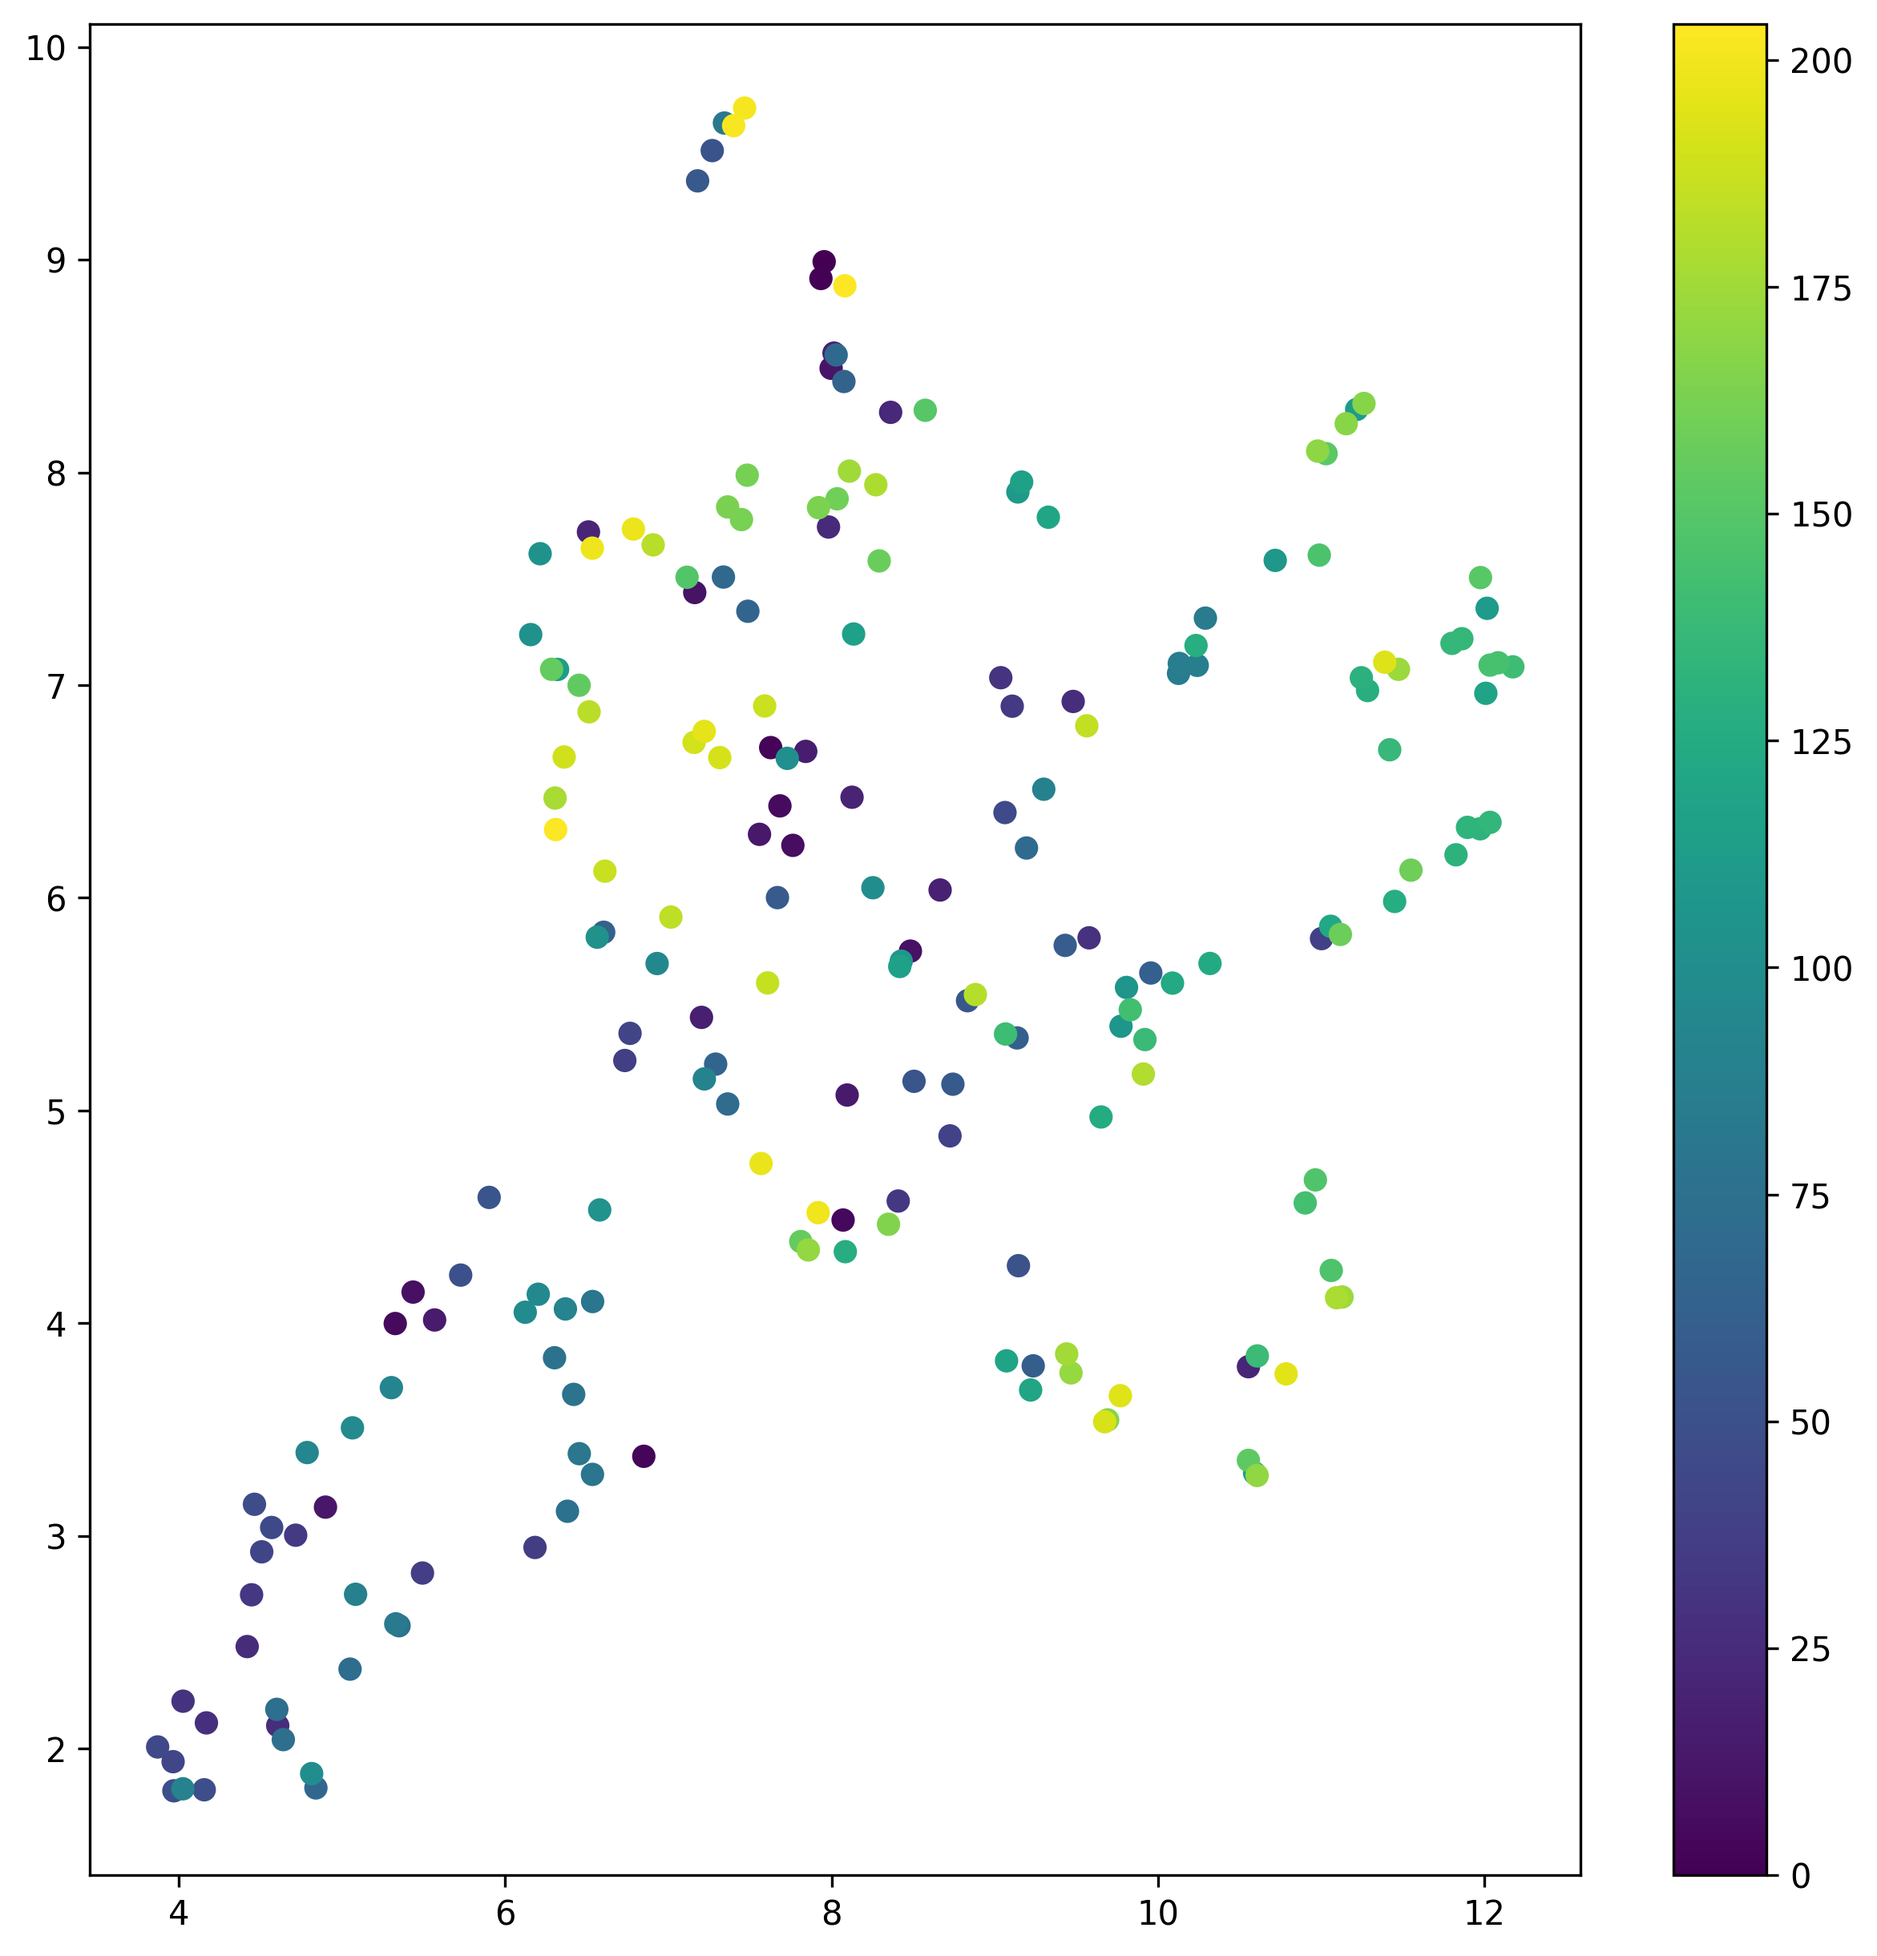
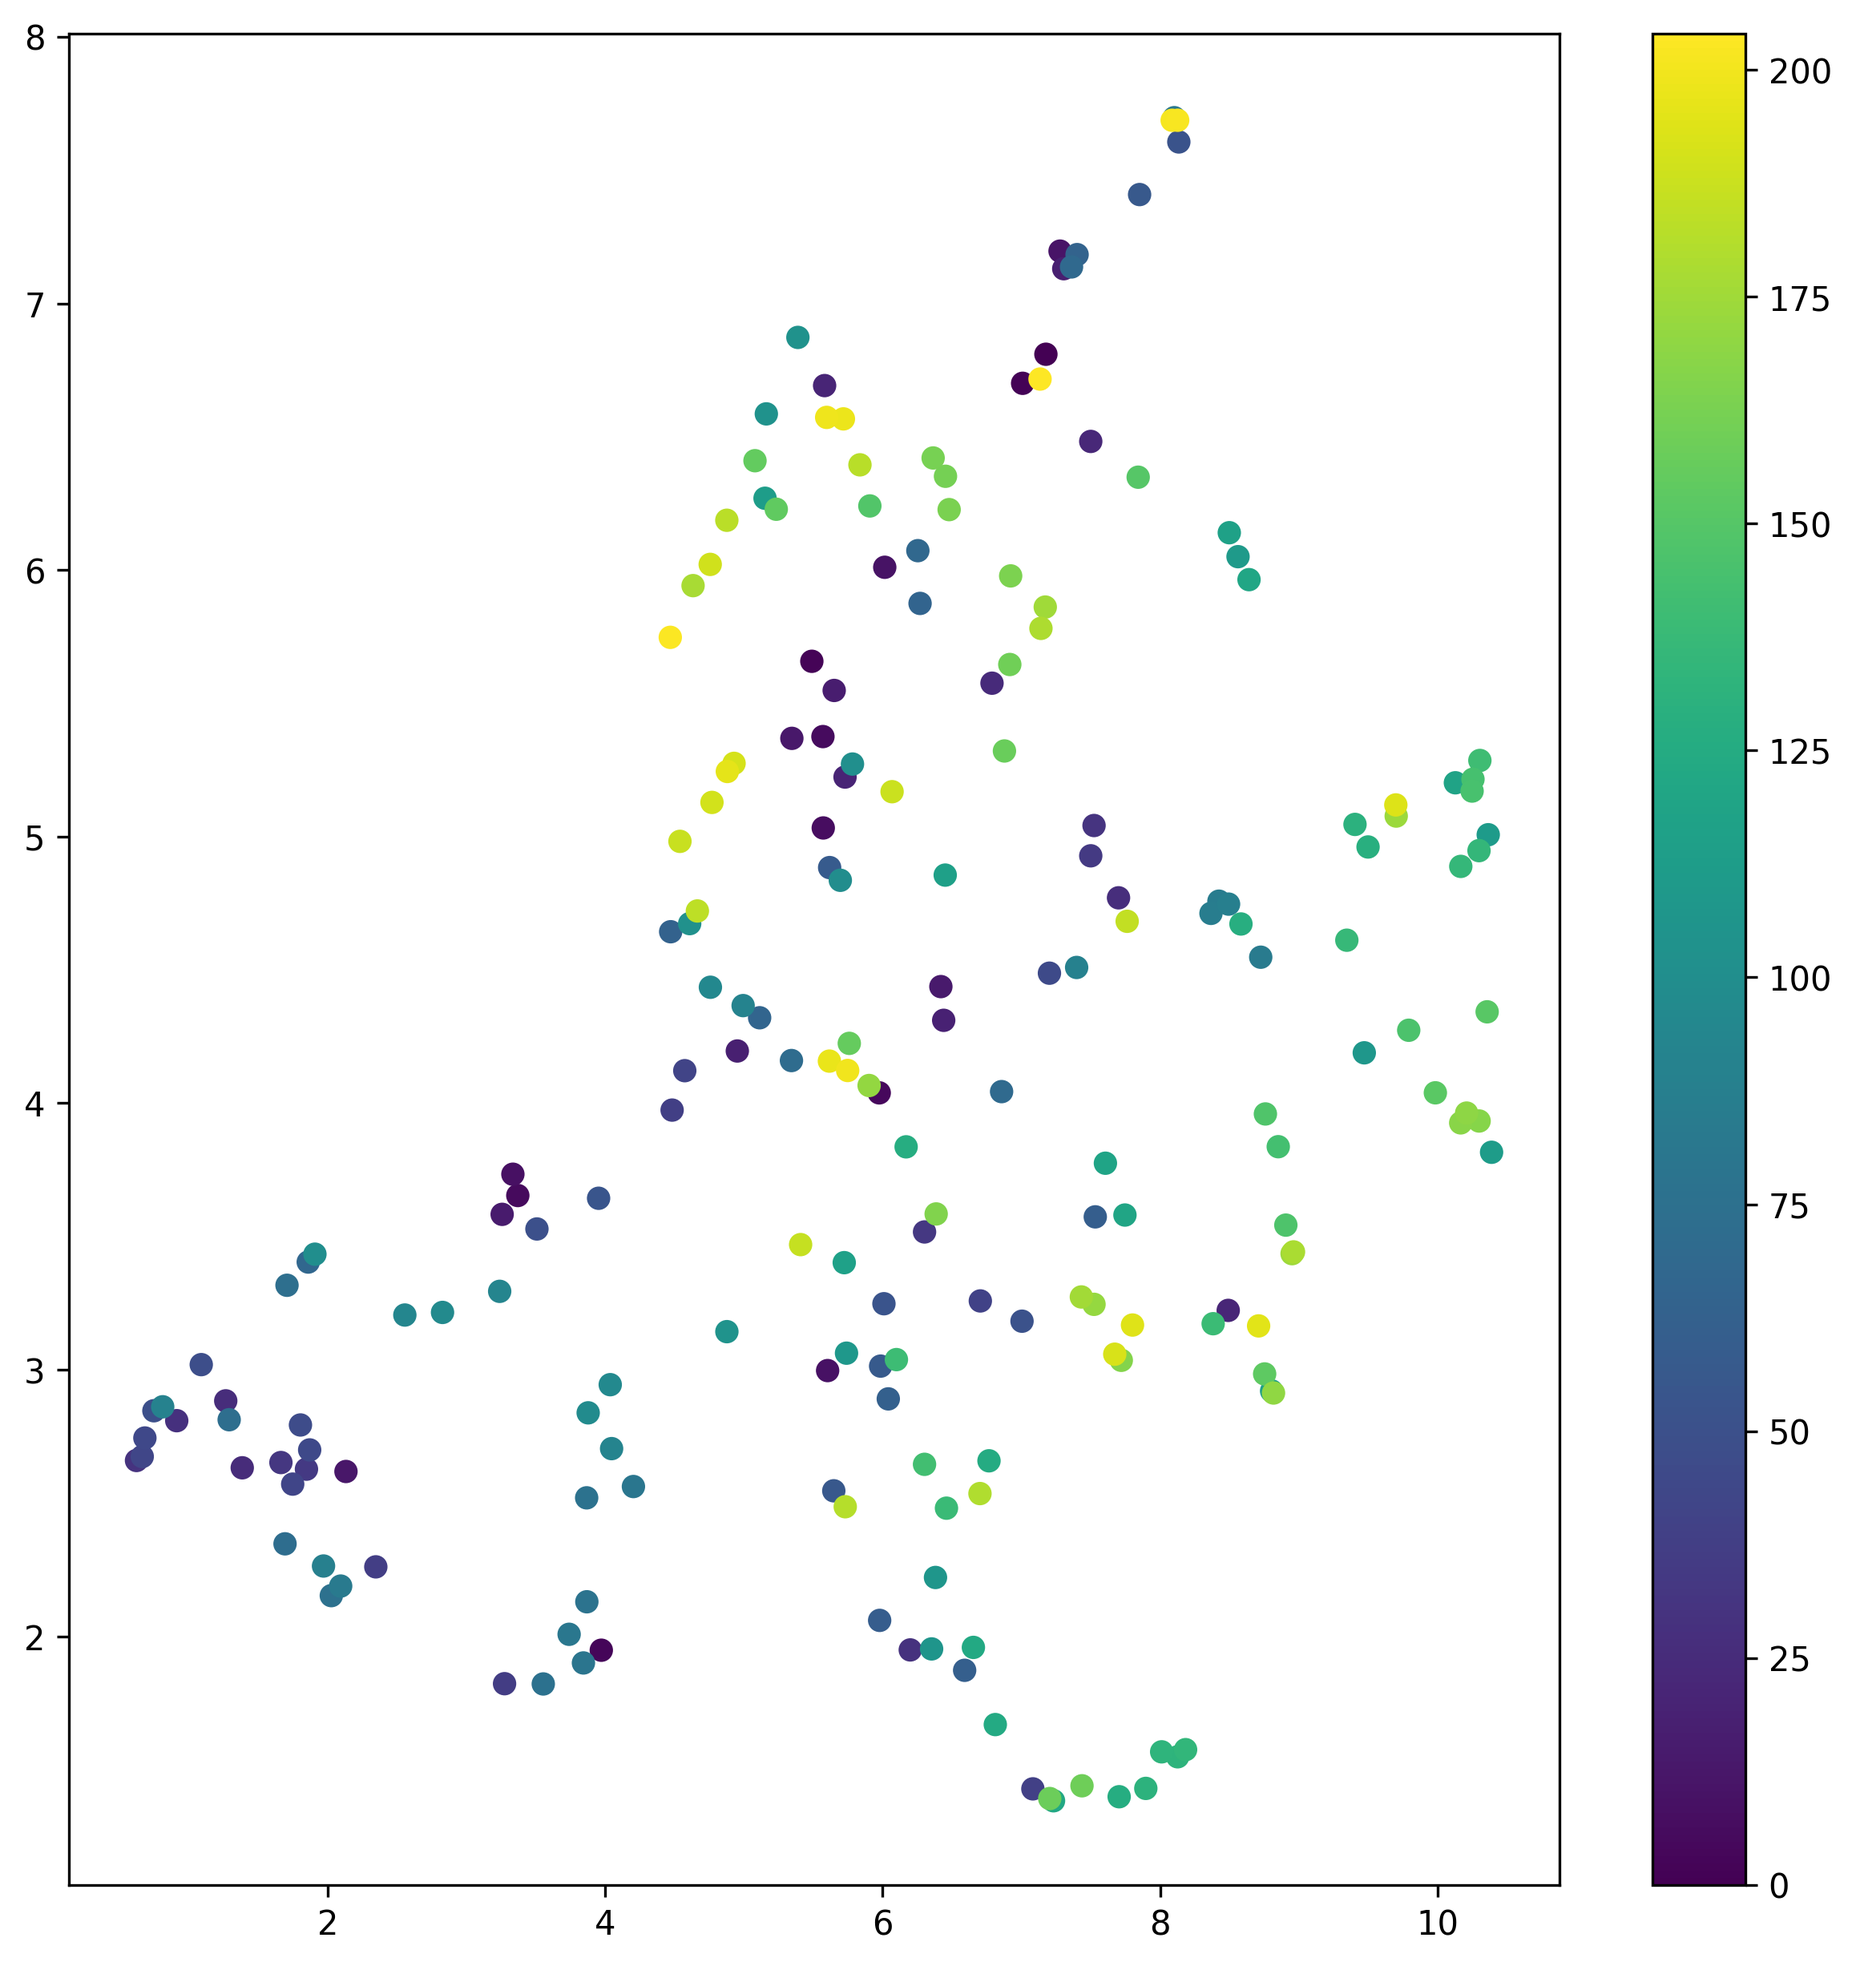
added abstract visualization to the mail

diff --git a/main.py b/main.py
@@ -12,12 +12,14 @@ import time
 import numpy as np
 import torch
 import nltk
+from typing import List
 import os
 from tqdm import tqdm
 import argparse
 import umap
 import matplotlib.pyplot as plt
 from multiprocessing import Pool
+import textwrap
 
 import openai
 from sentence_transformers import SentenceTransformer, util
@@ -87,7 +89,7 @@ class Paper:
         paper_info = paper_info.json()
 
         if "detail" in paper_info.keys():
-            raise PaperNotFoundException(paper.link)
+            raise PaperNotFoundException(self.link)
 
         self.id = paper_info["id"]
         self.arxiv_id = paper_info["arxiv_id"]
@@ -120,7 +122,6 @@ class Paper:
         
         # Make sure that "references" is only mentioned once and delete the
         # references section
-        if pdf_text.lower().count("references") < 2: print("MULTPLE REFERENCES")
         if "references" in pdf_text.lower():
             references_index = pdf_text.lower().rfind("references")
             pdf_text = pdf_text[:references_index]
@@ -182,11 +183,13 @@ class Paper:
         self.abstract = [i for i in self.abstract if not bool(re.search(r'https?://\S+|www\.\S+', i))]
         
     def get_embeddings(self, n_sentences=5):
+        # model = SentenceTransformer('all-mpnet-base-v2', device=self.device)
         model = SentenceTransformer('all-mpnet-base-v2', device=self.device)
         text_embeddings = model.encode(self.sentences)
         self.text_embeddings = np.vstack(text_embeddings)
         abstract_embeddings = model.encode(self.abstract)
         self.abstract_embeddings = np.vstack(abstract_embeddings)
+        del model; torch.cuda.empty_cache();
 
         self.most_important_sentences = []
         for abstract_embedding in self.abstract_embeddings:
@@ -245,9 +248,7 @@ Use the third person when referring to the authors of the paper.
             try: 
                 completion = openai.ChatCompletion.create(
                   model="gpt-3.5-turbo",
-                  messages=[
-                    {"role": "user", "content": prompt}
-                  ]
+                  messages=[{"role": "user", "content": prompt}]
                 )
                 return completion["choices"][0]["message"]["content"]
             except openai.error.RateLimitError:
@@ -261,32 +262,93 @@ def process_paper(link):
         paper = Paper(link)
         paper.get_embeddings(n_sentences=3)
         paper.get_summary()
-        paper.visualize_embedding(n_neighbors=5)
-        return paper.title, paper.summary
+        # paper.visualize_embedding(n_neighbors=5)
+        return paper
     except PaperNotFoundException as e:
         print(f"Oh no an exception >:( with paper {str(e)}")
+        return None
+              
+def make_abstract_visualization(abstracts: List, paper_titles: List):
+    abstract_lengths = [len(i) for i in abstracts]
+    abstracts = [i for j in abstracts for i in j]
+    device = "cuda" if torch.cuda.is_available() else "cpu"
+    model = SentenceTransformer('all-mpnet-base-v2', device=device)
+    embeddings = model.encode(abstracts)
+    red_embeddings = umap.UMAP(n_neighbors=10).fit_transform(embeddings)
+
+    # Generate a colormap based on paper titles
+    colors = ["tab:blue", "tab:orange", "tab:green", "tab:red", "tab:purple",
+              "tab:brown", "tab:pink", "tab:gray", "tab:olive", "tab:cyan"]
+    while len(colors) < len(set(paper_titles)):
+        colors += colors
+
+    title_to_color = {}
+    for idx, title in enumerate(list(set(paper_titles))):
+        title_to_color[title] = colors[idx]
+              
+    colors = [[title_to_color[i]]*length for i, length in zip(paper_titles, abstract_lengths)]
+    colors = [i for j in colors for i in j]
+    labels = [[title]*length for title, length in zip(paper_titles, abstract_lengths)]
+    labels = [i for j in labels for i in j]
+    labels = [i.split(":")[0] for i in labels]
+              
+    # Only keep the first label per paper, since we want to avoid duplicate
+    # elements in the legend
+    unique_labels = []
+    for label in labels:
+        if label not in unique_labels:
+            unique_labels.append(label)
+        else:
+            unique_labels.append('')
+    labels = unique_labels
+
+    # Add a linebreak to the labels if they are longer than 30 characters
+    wrapped_labels = [textwrap.fill(label, 30) for label in labels]
+
+    fig, ax = plt.subplots(figsize=(7, 7))
+    # The loop is necessary to get the legend to work
+    for (x, y), color, label in zip(red_embeddings, colors, wrapped_labels):
+        plt.scatter(x, y, c=color, label=label, alpha=0.8)
+
+    ax.set_xticks([])
+    ax.set_yticks([])
+    ax.spines['top'].set_visible(False)
+    ax.spines['right'].set_visible(False)
+    ax.spines['bottom'].set_visible(False)
+    ax.spines['left'].set_visible(False)
+    ax.set_title("")
+    ax.legend(bbox_to_anchor=(1.05, 1), loc='upper left', borderaxespad=0.)
+    plt.savefig(f"visualizations/abstracts.png", dpi=300, bbox_inches='tight')
 
 def main():
     # Get vargs
     parser = argparse.ArgumentParser()
     parser.add_argument("--n_papers", type=int, default=4)
     parser.add_argument("--email", type=str, required=True)
+    parser.add_argument("--n_processes", type=int, default=8)
     args = parser.parse_args()
 
     n_papers = args.n_papers
     email = args.email
+    n_processes = args.n_processes
 
     # Scrape the site and process the papers
     scraper = Scraper(n_papers=n_papers)
-    with Pool(10) as pool: 
-        results = pool.map(process_paper, list(scraper))
+    with Pool(n_processes) as pool: 
+        papers = pool.map(process_paper, list(scraper))
+        
+    # These are the papers for which the API did not work
+    papers = [i for i in papers if i is not None]
+    paper_titles = [i.title for i in papers]
+    paper_summaries = [i.summary for i in papers]
+    abstracts = [i.abstract for i in papers]
     
-    paper_titles = [i[0] for i in results]
-    paper_summaries = [i[1] for i in results]
+    print("here")
+    make_abstract_visualization(abstracts, paper_titles)
     
     # Send the mail
     email_sender = EmailClient()
-    email_sender.make_email(paper_titles, paper_summaries)
-    email_sender.send_email(email)
+    email_sender.make_email(paper_titles, paper_summaries, email)
+    email_sender.send_email()
 
 if __name__ == "__main__": main()

diff --git a/email_client.py b/email_client.py
@@ -1,5 +1,7 @@
 import smtplib
 from email.mime.text import MIMEText
+from email.mime.image import MIMEImage
+from email.mime.multipart import MIMEMultipart
 
 
 class EmailClient:
@@ -11,29 +13,46 @@ class EmailClient:
         
         self.base_html = open("mail.html").readlines()
         
-    def make_email(self, paper_titles, paper_summaries):
+    def make_email(self, paper_titles, paper_summaries, recipient_email):
         html = self.base_html
         for idx, line in enumerate(html):
             if "<!-- PAPER SUMMARY -->" in line:
                 summary_idx = idx
                 break
             
+        # Insert abstracts.png image
+        image_tag = '<img src="cid:abstracts" width="95%" style="margin-bottom: 15px;">'
+        html.insert(summary_idx, image_tag)
+        summary_idx += 1
+
         for idx, (title, summary) in enumerate(zip(paper_titles, paper_summaries)):
             p_tag_title = f'<p style="font-family: sans-serif; font-size: 20px; font-weight: 600; margin: 0; margin-bottom: 5px;">{title}</p>'
             p_tag_summary = f'<p style="font-family: sans-serif; font-size: 14px; font-weight: normal; text-align: justify; margin: 0; margin-bottom: 15px;">{summary}</p>'
             html.insert(summary_idx+idx, p_tag_title+p_tag_summary)
-        
-        self.html = "".join(html)
+            
+        html = "".join(html)
 
-    def send_email(self, recipient_email):
-        # Create a multipart message object
-        msg = MIMEText(self.html, 'html')
+        # Create the email message
+        # msg = MIMEText(html, 'html')
+        msg = MIMEMultipart()
+        msg.attach(MIMEText(html, 'html'))
         msg['From'] = self.sender_email
         msg['To'] = recipient_email
         msg['Subject'] = "Papers With Code update"
 
+        # Read and attach the image
+        with open('visualizations/abstracts.png', 'rb') as f:
+            image_data = f.read()
+        image = MIMEImage(image_data)
+        image.add_header('Content-ID', '<abstracts>')
+        msg.attach(image)
+            
+        self.msg = msg
+
+    def send_email(self):
+        # Create a multipart message object
         server = smtplib.SMTP_SSL(self.smtp_server, self.smtp_port)
         server.login(self.sender_email, self.sender_password)
-        server.send_message(msg)
+        server.send_message(self.msg)
         server.quit()
 
